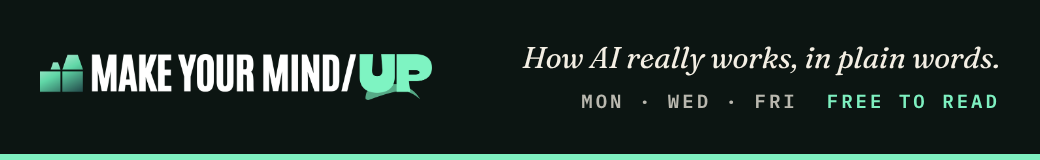
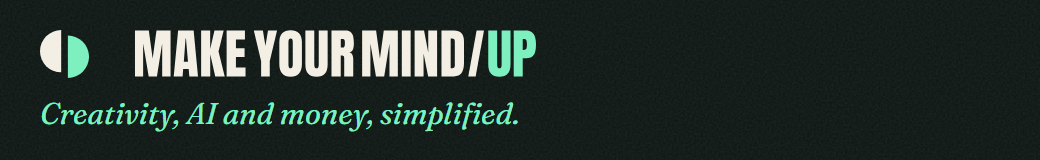
Retire the last pre-v5 leftovers: Substack images, signature strip, kit bios
Remove the retired Substack kit images (nothing reads them) and point the kit
README at the v5 Channel art in Drive. Replace the email signature strip at the
same path and size with the v5 lockup on ink and the motto, rendered from the
updated banner.html. Correct NOW.md and the brand-kit ignore note to the v5
build, describe the v5 cover in the welcome image alt text, drop the unused
felt-robot photoAlt, and keep "AI" capitalised in the kit's bios; the zip is
rebuilt.

diff --git a/apps/cover/substack-kit/email-signature/banner.html b/apps/cover/substack-kit/email-signature/banner.html
@@ -1,21 +1,21 @@
 <!doctype html>
 <html><head><meta charset="utf-8">
+<!-- The makeyourmindup v5 email signature strip. 520 x 80, rendered at 2x to
+     ../../public/brand/email-signature-banner.png (1040 x 160). Needs the kit's
+     logos/makeyourmindup-horizontal-on-dark.svg and fonts/Fraunces-Italic-Variable.ttf
+     beside this file; README.md says how. -->
 <style>
-@font-face{font-family:Archivo;src:url(Archivo-Variable.ttf);font-weight:100 900}
-@font-face{font-family:Plex;src:url(IBMPlexMono-SemiBold.ttf);font-weight:600}
-@font-face{font-family:Fraunces;src:url(Fraunces-Italic-Variable.ttf);font-style:italic;font-weight:100 900}
-html,body{margin:0;background:#fff}
-.b{width:520px;height:80px;background:#0C1512;box-sizing:border-box;position:relative;
-  display:flex;align-items:center;justify-content:space-between;padding:0 20px 3px 20px;overflow:hidden}
-.b:after{content:"";position:absolute;left:0;right:0;bottom:0;height:3px;background:#7EF0C0}
-.logo{height:23px;display:block}
-.r{text-align:right}
-.t{font-family:Fraunces;font-style:italic;font-weight:400;font-size:15px;color:#F4EFE4;line-height:1.15;letter-spacing:0}
-.d{font-family:Plex;font-weight:600;font-size:9.5px;letter-spacing:.16em;color:#7EF0C0;margin-top:6px}
-.d span{color:#F4EFE4;opacity:.75}
+@font-face{font-family:'MYMU Fraunces';src:url(Fraunces-Italic-Variable.ttf);font-style:italic;font-weight:100 900}
+*{margin:0;padding:0;box-sizing:border-box}
+html,body{background:#0C1512}
+.b{width:520px;height:80px;background:#0C1512;position:relative;overflow:hidden}
+.grain{position:absolute;inset:0;opacity:.07;pointer-events:none}
+.logo{position:absolute;left:20px;top:15px;height:24px;width:248px;display:block}
+.m{position:absolute;left:20px;bottom:14px;font-family:'MYMU Fraunces';font-style:italic;font-weight:400;
+  font-size:15px;line-height:1.2;color:#7EF0C0}
 </style></head>
 <body><div class="b" id="banner">
-<img class="logo" src="makeyourmindup-horizontal-transparent-1200w.png" alt="">
-<div class="r"><div class="t">How AI really works, in plain words.</div>
-<div class="d"><span>MON · WED · FRI</span>&nbsp;&nbsp;FREE TO READ</div></div>
+<svg class="grain" width="100%" height="100%"><filter id="n"><feTurbulence type="fractalNoise" baseFrequency=".9" numOctaves="2" stitchTiles="stitch"/><feColorMatrix values="0 0 0 0 1  0 0 0 0 1  0 0 0 0 1  0 0 0 1 0"/></filter><rect width="100%" height="100%" filter="url(#n)"/></svg>
+<img class="logo" src="makeyourmindup-horizontal-on-dark.svg" alt="makeyourmindup">
+<div class="m">Creativity, AI and money, simplified.</div>
 </div></body></html>

diff --git a/scripts/brand-kit-v5/build.py b/scripts/brand-kit-v5/build.py
@@ -238,11 +238,11 @@ def write_text(kit: Path):
     (kit / 'Channel art' / 'bios-and-descriptions.txt').write_text('\n'.join([
         'Profile copy, v5 (26 Nov 2026). Paste exactly. No names, no series names, no em dashes.', '',
         'YouTube description:',
-        f'Short videos from makeyourmindup: {PROMISE[0].lower()}{PROMISE[1:]}', '', MOTTO, '', f"Read today's Edition at {SITE}", '',
+        f'Short videos from makeyourmindup: {PROMISE}', '', MOTTO, '', f"Read today's Edition at {SITE}", '',
         'Instagram bio:', PROMISE, MOTTO, SITE, '',
         f'Facebook intro: {PROMISE} {MOTTO}', '',
         f'Substack short description: {PROMISE} {MOTTO}', '',
-        f'X bio (Krish\'s own account): Editor of makeyourmindup: {PROMISE[0].lower()}{PROMISE[1:-1]}. {SITE}', '',
+        f'X bio (Krish\'s own account): Editor of makeyourmindup: {PROMISE} {SITE}', '',
         f'TikTok bio (Krish\'s own account): {PROMISE} {SITE}', '',
         'If a field cuts one of these, drop the second sentence; never reword.', '']), encoding='utf-8', newline='\n')
     rows = '\n'.join(f'| `logos/{n}` | {d} |' for n, d in MARKS.values())

diff --git a/apps/cover/substack-kit/README.md b/apps/cover/substack-kit/README.md
@@ -3,7 +3,7 @@ kill_list_scope: canon
 ---
 # Substack refresh kit
 
-The archived Substack kit for the previous cover. Nothing here posts itself:
+The Substack kit, on the v5 brand (locked 2026-11-25). Nothing here posts itself:
 Krish pastes it in. The copy lives in `COPY.md`, and the paid-tier copy in
 `PAID.md`, both scanned by the kill list (`npm run kill-list`). This README is
 marked canon because it quotes the old tagline in order to remove it.
@@ -20,19 +20,29 @@ there, so the hub has to match the front door.
 
 ## The images
 
-| File | Where it goes in Substack | Size |
+The images are the v5 Channel art, not files in this folder. The retired
+images that used to sit in `images/` (the block mark logo, the old wordmarks,
+the 1100 x 220 email banner, the welcome image, the theatre social preview and
+the editor photo) are removed and must not be uploaded. Take every image from
+Google Drive, `makeyourmindup > 1 Brand kit (permanent) > Channel art` (folder
+id `1FVfcoSMT3DCzvyvsq0KHdSgr8JTzRBIe`), which is
+the `Channel art/` folder of `brand-kit/makeyourmindup-brand-kit.zip` in this
+repository (built by `scripts/brand-kit-v5/build.py`).
+
+| File in Channel art | Where it goes in Substack | Size |
 |---|---|---|
-| `images/logo-1024.png` | Website editor, Header, Logos: logo | 1024 square, the block mark on ink |
-| `images/wordmark-transparent-1344x256.png` | Website editor, Header, Logos: wordmark, while the site background is dark | 1344 x 256, transparent |
-| `images/wordmark-ink-1344x256.png` | The same slot, only if the site background is switched to light | 1344 x 256 |
-| `images/cover-1200x1200.png` | Website editor, Welcome page, Image | 1200 square |
-| `images/email-banner-1100x220.png` | Settings, Emails, Email header & footer: banner | 1100 x 220 at 2x |
-| `images/social-preview-1200x630.png` | Per post, not a setting: post Settings, Social preview, Upload New, for a post with no image of its own | 1200 x 630 |
+| `substack-logo-1024.png` | Website editor, Header, Logos: logo | 1024 square, the icon on ink |
+| `substack-wordmark-wide-1344x256.png` | Website editor, Header, Logos: wordmark (wide logo) | 1344 x 256, the ink wordmark on a transparent ground |
+| `substack-cover-1200x1200.png` | Website editor, Welcome page, Image (cover photo) | 1200 square |
+| `substack-email-banner-2200x440.png` | Settings, Emails, Email header & footer: banner, the one masthead on every email | 2200 x 440, so 1100 x 220 at 2x |
+| `social-card-1200x630.png` | Per post, not a setting: post Settings, Social preview, Upload New, for a post with no image of its own | 1200 x 630 |
+
+The short description is in `COPY.md`; `bios-and-descriptions.txt` in the same
+Drive folder holds the same line. `how-they-crop.jpg` shows what each platform
+crops.
 
 Substack builds the publication's own share card from the logo, name and short
-description, so there is no publication-level social image to upload.
-
-The theatre social card and welcome image belong to this archived kit. The
+description, so there is no publication-level social image to upload. The
 Edition's current site share card is generated at `/opengraph-image`.
 
 Sizes follow Substack's own guidance (help centre, checked 2026-09-25): logo
@@ -45,8 +55,9 @@ Website editor, Home page, Colors. On 2026-09-25 the live values were a dark
 teal background `#042f2e` and a green accent `#059669`.
 
 - Accent: mint `#7EF0C0`
-- Background, to feel like the cover: ink `#0C1512`, with the transparent wordmark
-- Background, to stay light: cream `#F4EFE4`, with the ink wordmark
+- Background: cream `#F4EFE4`, which the v5 wide logo (ink on transparent) is
+  made for. On a dark background the wide logo does not show; leave the
+  background light.
 
 ## Steps
 
@@ -56,12 +67,16 @@ website editor at `https://home.makeyourmindup.ai/publish/website-editor/home`.
 1. Publication name: already `makeyourmindup`. Leave it.
 2. Settings, Basics, Short description: the line under "Short description" in
    `COPY.md`.
-3. Website editor: logo, wordmark, colours and welcome page image, per the
-   tables above.
+3. Open Drive, `makeyourmindup > 1 Brand kit (permanent) > Channel art`, and
+   download the files named in the table above. Website editor: upload
+   `substack-logo-1024.png` as the logo, `substack-wordmark-wide-1344x256.png`
+   as the wordmark and `substack-cover-1200x1200.png` as the welcome page
+   image, then set the colours above.
 4. Settings, Website, Edit next to About page: delete everything and paste the
    About section of `COPY.md`.
-5. Settings, Emails, Edit next to Email header & footer: upload the banner,
-   then send a test email.
+5. Settings, Emails, Edit next to Email header & footer: upload
+   `substack-email-banner-2200x440.png` from the same Drive folder, then send a
+   test email.
 6. Settings, Emails, Edit next to each welcome email: free from `COPY.md`,
    paid from `PAID.md`, and founding as paid plus its extra line (Substack
    sends founding members the paid email by default). Leave the imported one.

diff --git a/apps/cover/substack-kit/email-signature/README.md b/apps/cover/substack-kit/email-signature/README.md
@@ -1,17 +1,25 @@
+---
+kill_list_scope: canon
+---
 # The email signature banner
 
-Draft v1, 6 October 2026, waiting on Krish's yes. Krish asked for "a better
-email signature asset than this" (6 October 2026).
+v5, 26 November 2026, on the look Krish locked on 25 November. It replaces the
+October strip (the old mark, the old tagline and the days), which is retired.
 
 - `../../public/brand/email-signature-banner.png`: a slim makeyourmindup strip
-  for the foot of Krish's email signature. It shows the horizontal logo, "How AI
-  really works, in plain words." and the three days, and links to
-  makeyourmindup.ai. Once this branch is merged and the cover is deployed, it's
-  served at https://makeyourmindup.ai/brand/email-signature-banner.png, the
-  address the signature uses.
-- `banner.html`: its source. Render the `#banner` element at twice the size,
-  with the brand kit's Archivo, IBM Plex Mono and Fraunces files and
-  `makeyourmindup-horizontal-transparent-1200w.png` beside it.
+  for the foot of Krish's email signature, 1040 x 160 (520 x 80 at 2x). It
+  shows the v5 horizontal lockup on ink with grain and the motto, "Creativity,
+  AI and money, simplified.", in Fraunces italic. It is served at
+  https://www.makeyourmindup.ai/brand/email-signature-banner.png, the address
+  the signature uses, so it keeps that path and that size.
+- `banner.html`: its source. To render it, put the brand kit's
+  `logos/makeyourmindup-horizontal-on-dark.svg` and
+  `fonts/Fraunces-Italic-Variable.ttf` beside it (from
+  `brand-kit/makeyourmindup-brand-kit.zip`, or content-engine's
+  `assets/brand/makeyourmindup/v5/v9.svg` and
+  `assets/fonts/makeyourmindup/`), open it in Playwright's Chromium with a
+  520 x 80 viewport and a device scale factor of 2, wait for the font, and
+  screenshot the `#banner` element.
 
 The signature itself, its install steps and a preview live in Google Drive
 under `04_Content > Sales Materials > Email signature`

diff --git a/now-notes/2026-11-26-v5-leftovers.md b/now-notes/2026-11-26-v5-leftovers.md
@@ -1,0 +1,7 @@
+Status: The last pre-v5 leftovers are gone. The retired Substack kit images are removed and the kit README points to the v5 Channel art in Drive. The email signature strip at /brand/email-signature-banner.png is the v5 lockup on ink with the motto, rendered from banner.html. NOW.md, the brand-kit ignore note, the welcome image alt text and site.json no longer describe v1.5 or the felt robot. The kit's bios keep "AI" capitalised and the zip is rebuilt.
+
+Changed: apps/cover/substack-kit (images removed, README, COPY.md, email-signature), apps/cover/public/brand/email-signature-banner.png, apps/cover/content/site.json, scripts/brand-kit-v5/build.py, brand-kit/makeyourmindup-brand-kit.zip, brand-kit/.gitignore, NOW.md.
+
+Next: Once the cover deploys, confirm the live email signature banner shows the v5 strip.
+
+North Star check (2026-11-26): holds.

diff --git a/NOW.md b/NOW.md
@@ -57,8 +57,9 @@ at all; content-engine runs its kill list.
 `www.makeyourmindup.ai`, which serves the cover from `apps/cover/` (`73735f5`,
 ruling Krish 2026-09-25: the cover takes the domain, and the Cannes funnel stays
 offline until mm-ctrl hosts it). `apps/cover/README.md` says how it deploys and
-what regenerates its assets. The brand book and kit, v1.5 on 2026-10-05, are in
-`docs/brandbooknew/`, rebuilt by `npm run brand-kit` in `apps/cover`. This
+what regenerates its assets. The v5 brand kit is
+`brand-kit/makeyourmindup-brand-kit.zip`, built by `python
+scripts/brand-kit-v5/build.py --content-engine <checkout>`. This
 paragraph was corrected on 2026-09-26; it had still described the Cannes funnel
 as live.
 

diff --git a/apps/cover/substack-kit/COPY.md b/apps/cover/substack-kit/COPY.md
@@ -50,4 +50,4 @@ makeyourmindup
 
 ## Image alt text
 
-The makeyourmindup logo above a felt robot standing on a plinth, waving, its chest seam unpicked. The wave is stamped theatre and the stuffing real. Below it, the line "AI, unpicked".
+The makeyourmindup logo on a dark green ground: a circle split into cream and mint halves, above the name in tall cream capitals with UP in mint. At the bottom, the lines "AI news for the creative industries, every morning." and "Creativity, AI and money, simplified."
